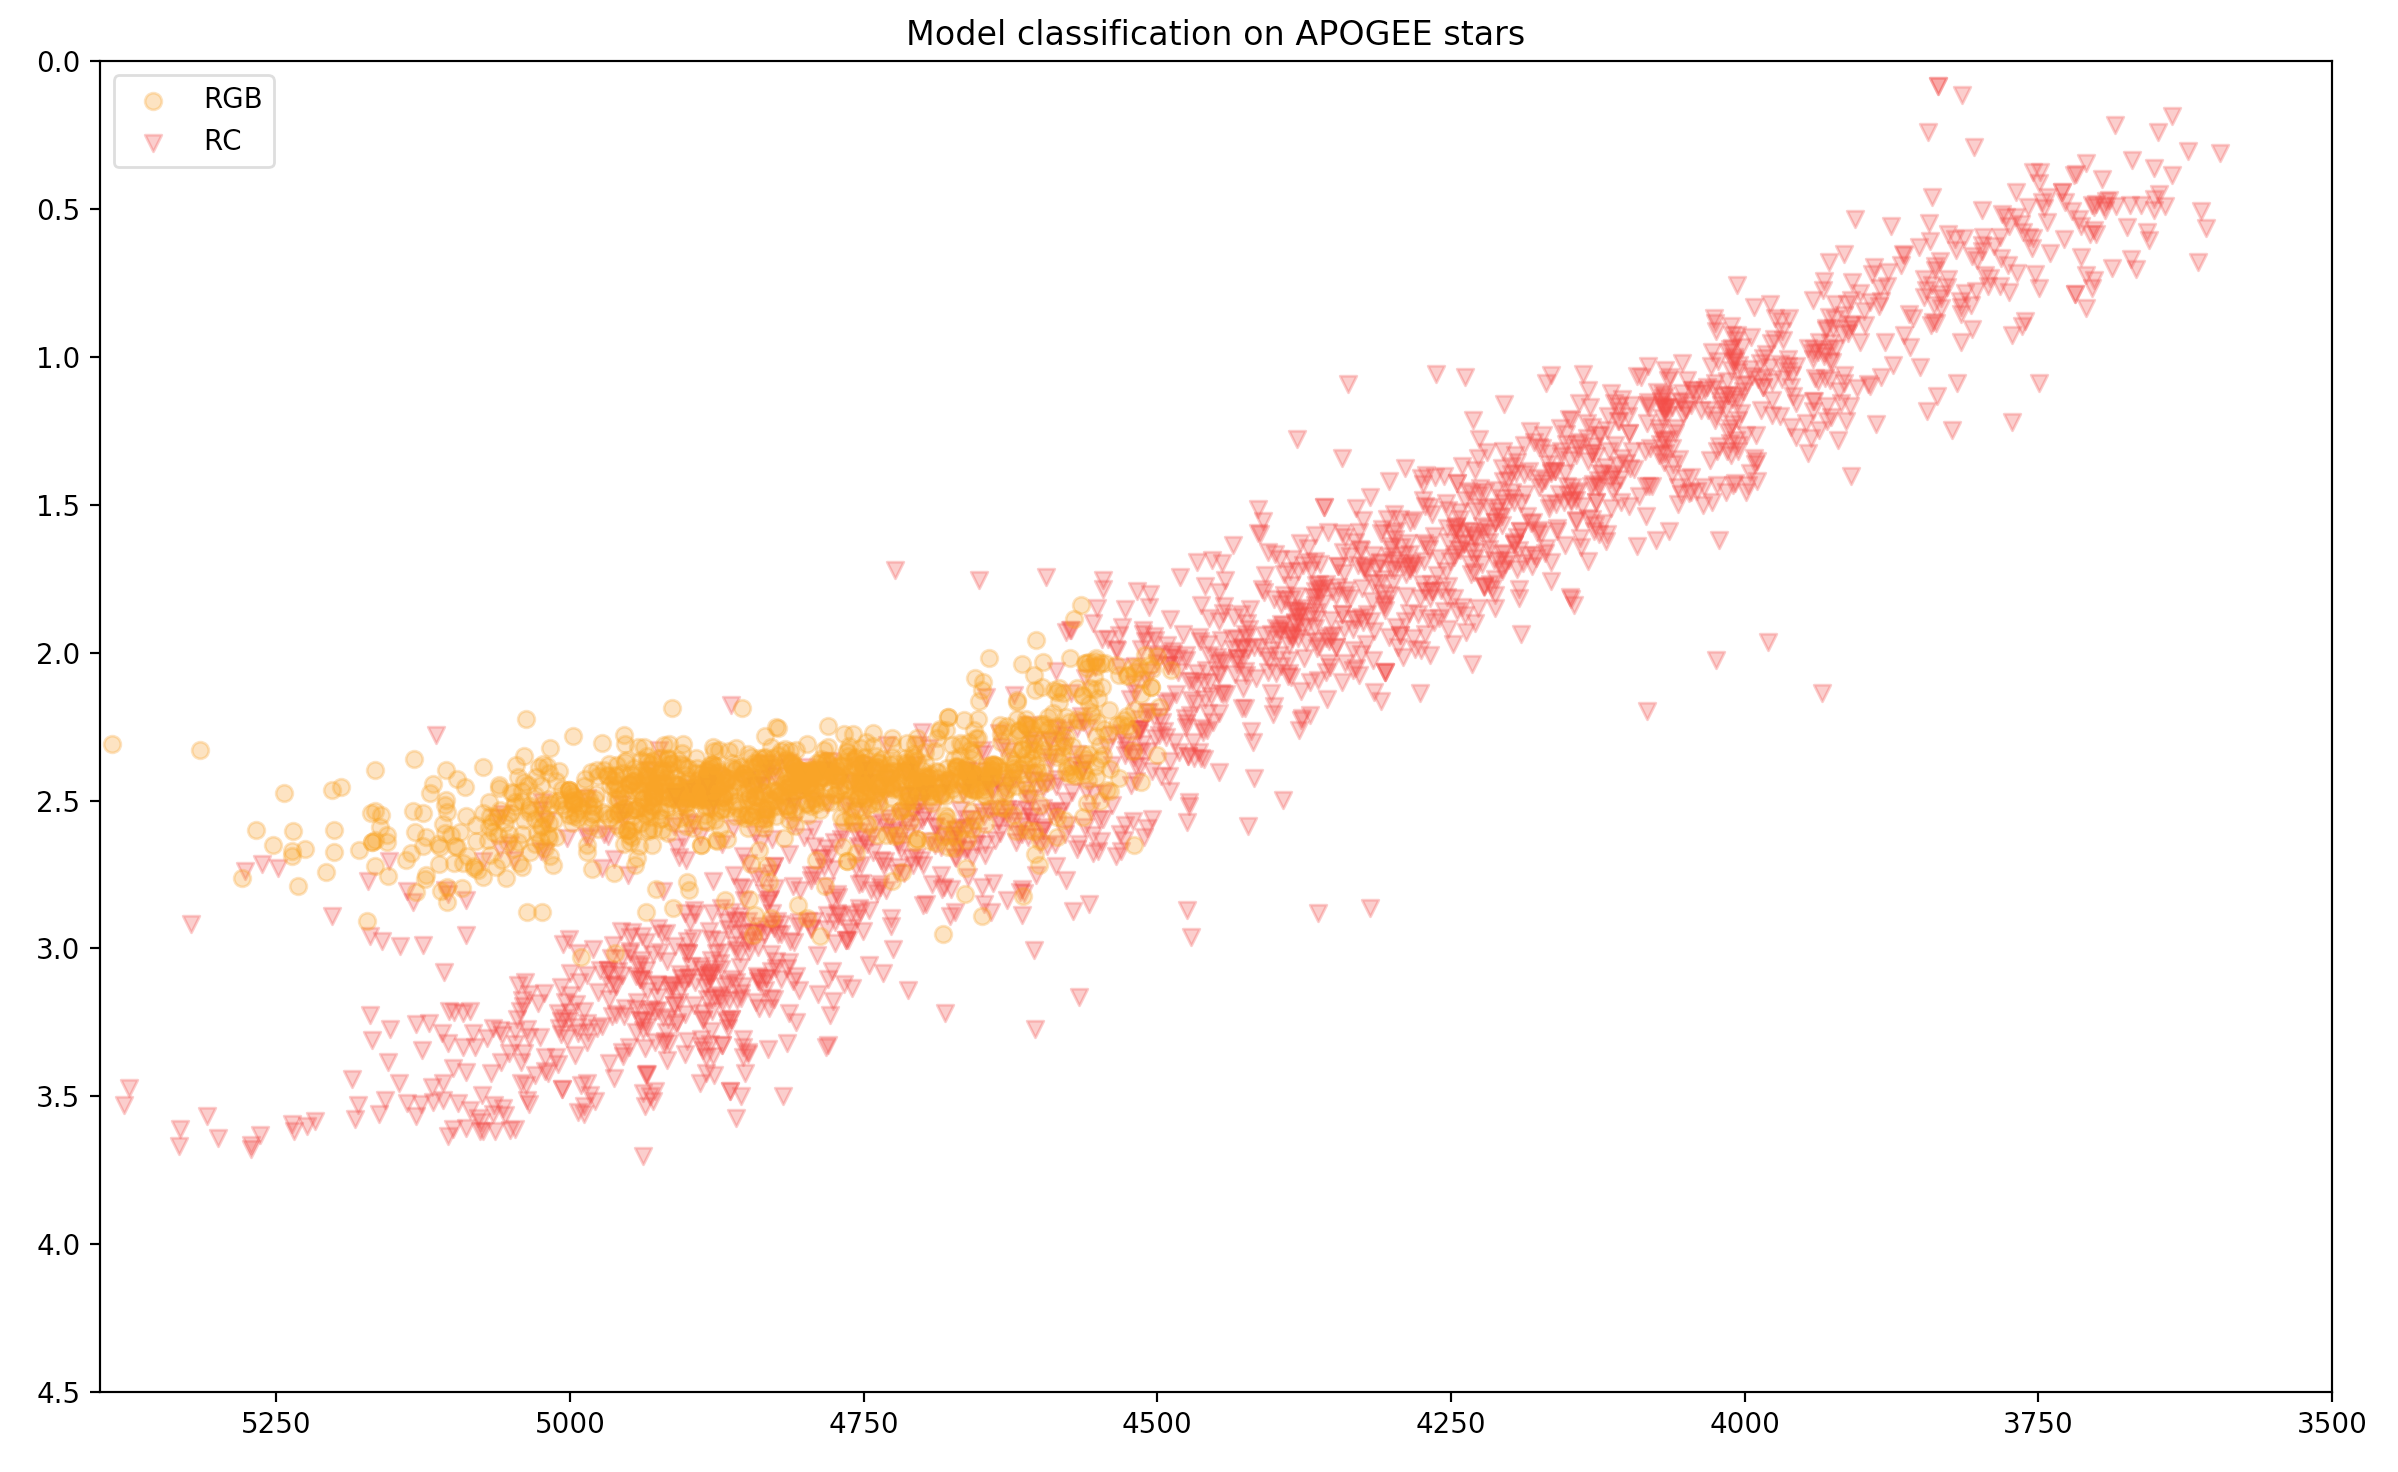
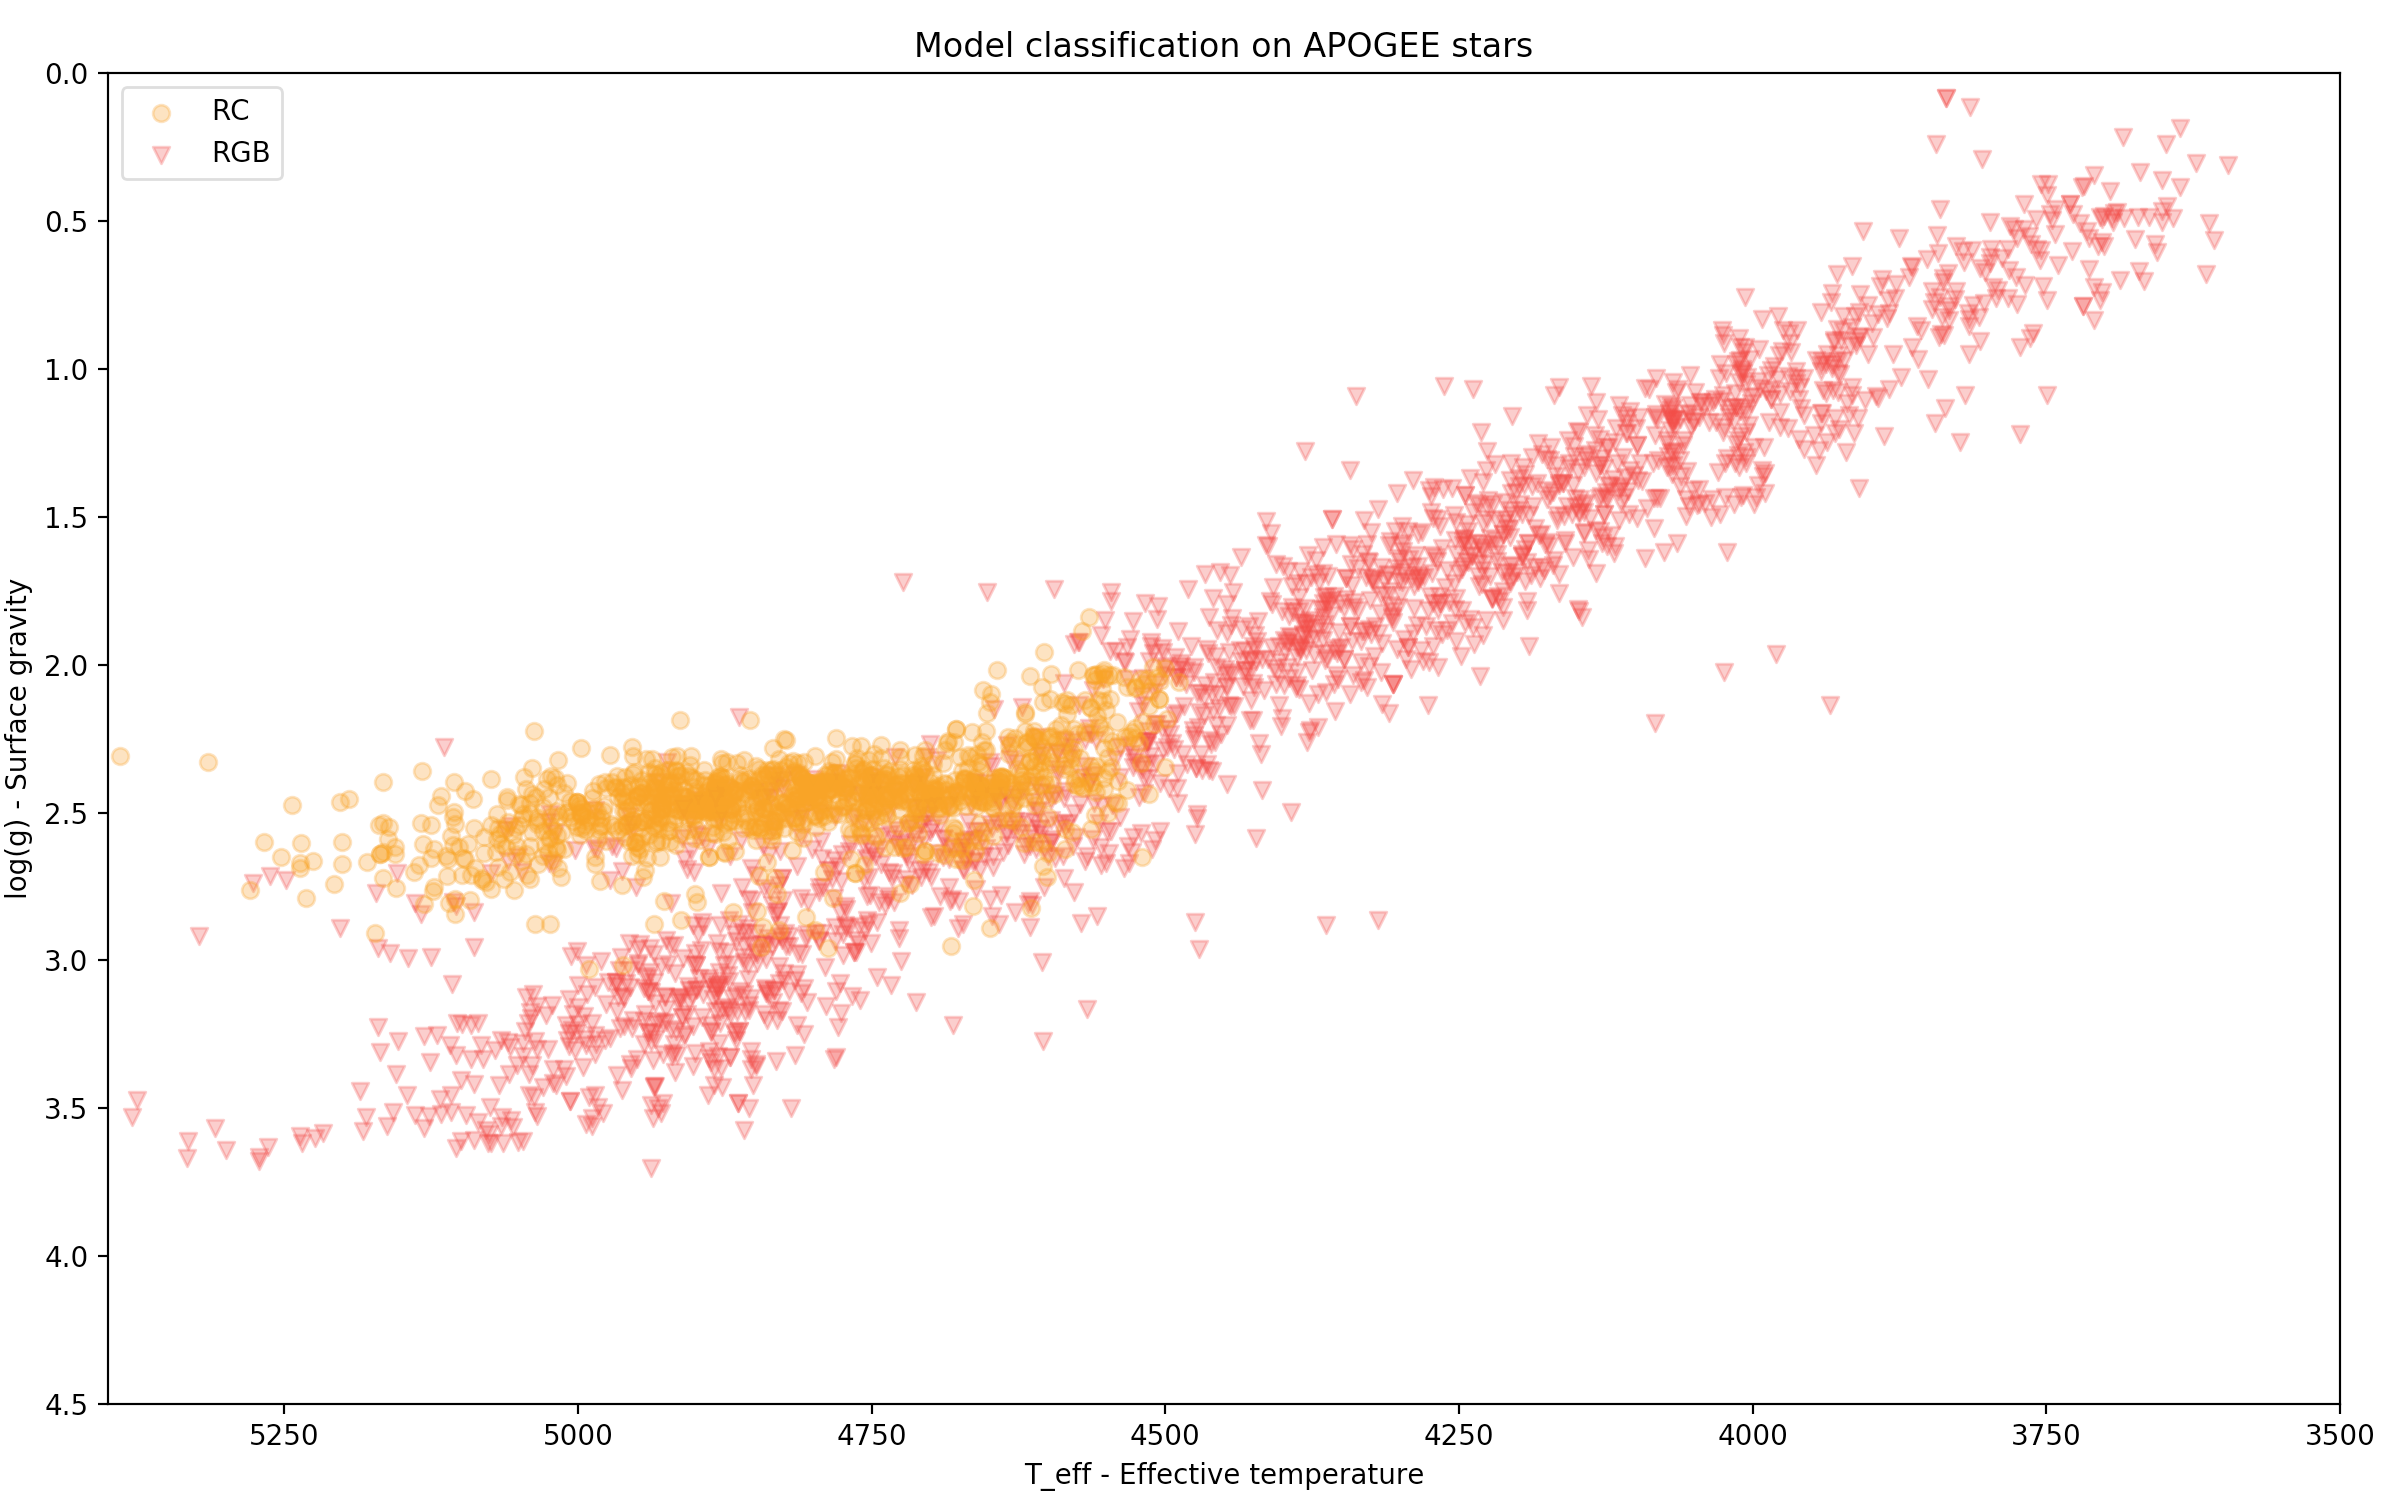
Added in test Candle model and usage docs fixed

diff --git a/services/ModelPerformanceVisualization.py b/services/ModelPerformanceVisualization.py
@@ -146,9 +146,11 @@ def plot_classifications(teff, logg, probabilities, threshold = 0.5, title="Mode
 	rgb_idx = [i for i in range(0, N) if probabilities[i] < threshold]
 	rgb_ax = plt.scatter(teff[rgb_idx], logg[rgb_idx], marker='v', color="#F03434", alpha=0.3)
 	rc_ax = plt.scatter(teff[rc_idx], logg[rc_idx], color="#F89406", alpha=0.3)
-	plt.legend((rc_ax, rgb_ax), ('RGB', 'RC'))
+	plt.legend((rc_ax, rgb_ax), ('RC', 'RGB'))
 	plt.xlim(5400, 3500)
 	plt.ylim(4.5, 0)
+	plt.xlabel("T_eff - Effective temperature")
+	plt.ylabel("log(g) - Surface gravity")
 	plt.title(title)
 
 
